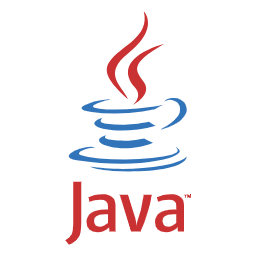
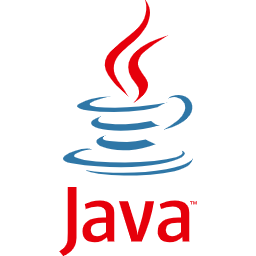
About Me

Changed region(s): [[0.25, 0.0, 0.75, 0.6875], [0.2188, 0.6875, 0.7812, 1.0]]

diff --git a/index.html b/index.html
@@ -114,11 +114,11 @@
             <div class="container_content-sobreMi" data-aos="fade-right">
                 <div class="container_texto-sobreMi">
                     <span class="title_sobreMi">Daniel Arango</span>
-                    <span class="texto_sobreMi" data-section="sobre-mi" data-value="texto_sobreMi">Desarrollador Full Stack <br><br>Soy una persona empática y entusiasta, con competencias enfocadas en el trabajo en equipo, comunicación asertiva, resolución de problemas, responsable y proactiva, me gusta aprender de los demás y superarme continuamente.</span>
+                    <span class="texto_sobreMi" data-section="sobre-mi" data-value="texto_sobreMi">Desarrollador de software apasionado por crear soluciones empresariales de alto impacto, especializado en arquitecturas de microservicios para aplicaciones escalables y eficientes. Comprometido con la innovación y la mejora continua, enfrento cada proyecto como una oportunidad de crecimiento y colaboración, orientado siempre hacia resultados de excelencia y al éxito del equipo</span>
                 </div>
     
                 <picture class="container_image-sobreMi">
-                    <img class="image_sobreMi" src="./assets/images/home-dev.png" alt="Ilustración mujer y café">
+                    <img class="image_sobreMi" src="./assets/images/logo-sobremi.png" alt="Ilustración mujer y café">
                 </picture>
             </div>
         </section>
